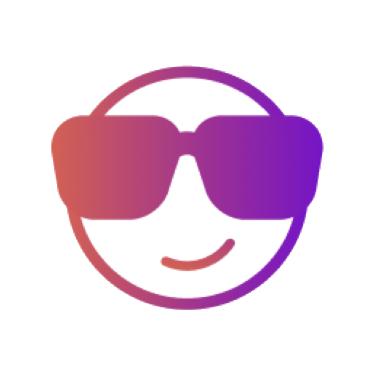
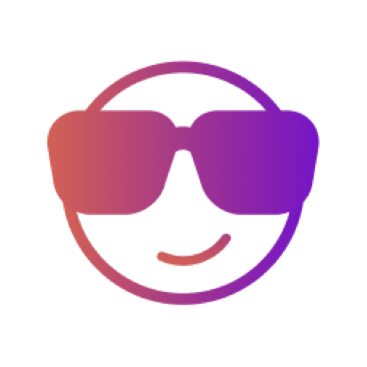
fix: логотип — целый круг (low-threshold кеинг, контур не съедается); заголовки Fraunces→Manrope (чистый Apple-стиль, без серифа)

diff --git a/index.html b/index.html
@@ -13,7 +13,7 @@
 <meta property="og:type" content="website">
 <link rel="preconnect" href="https://fonts.googleapis.com">
 <link rel="preconnect" href="https://fonts.gstatic.com" crossorigin>
-<link href="https://fonts.googleapis.com/css2?family=Fraunces:ital,opsz,wght@0,9..144,300;0,9..144,500;0,9..144,700;0,9..144,900;1,9..144,500&family=Manrope:wght@400;500;600;700;800&display=swap" rel="stylesheet">
+<link href="https://fonts.googleapis.com/css2?family=Manrope:wght@400;500;600;700;800&display=swap" rel="stylesheet">
 <style>
 :root{
   /* palette — light playful-premium */
@@ -67,9 +67,9 @@ body{
 @keyframes float{0%,100%{transform:translateY(0)}50%{transform:translateY(-7px)}}
 .medallion .disc{width:100%;height:100%;display:grid;place-items:center;position:relative;z-index:1}
 .medallion img,.medallion video{width:100%;height:100%;object-fit:contain;display:block}
-.medallion .ph{font-family:"Fraunces";font-weight:900;font-size:34px;background:var(--grad);-webkit-background-clip:text;background-clip:text;color:transparent}
+.medallion .ph{font-family:"Manrope";font-weight:900;font-size:34px;background:var(--grad);-webkit-background-clip:text;background-clip:text;color:transparent}
 
-.brand{font-family:"Fraunces",serif;font-weight:900;font-size:clamp(46px,15vw,68px);line-height:.92;letter-spacing:-.02em;margin:2px 0}
+.brand{font-family:"Manrope",sans-serif;font-weight:900;font-size:clamp(46px,15vw,68px);line-height:.92;letter-spacing:-.02em;margin:2px 0}
 .brand .dot{background:var(--grad);-webkit-background-clip:text;background-clip:text;color:transparent}
 .wordmark{display:block;width:min(310px,74vw);height:auto;margin:0 auto}
 .tag{margin-top:14px;font-weight:600;font-size:15px;color:var(--ink-soft);letter-spacing:.01em}
@@ -98,7 +98,7 @@ body{
 /* ---------- section heading ---------- */
 .sec{margin-top:44px}
 .sec-h{display:flex;align-items:center;gap:14px;margin-bottom:18px}
-.sec-h h2{font-family:"Fraunces";font-weight:700;font-size:22px;letter-spacing:-.01em;white-space:nowrap}
+.sec-h h2{font-family:"Manrope";font-weight:800;font-size:21px;letter-spacing:-.03em;white-space:nowrap}
 .sec-h .ln{flex:1;height:1px;background:var(--line-strong)}
 .sec-h .cnt{font-size:12px;font-weight:800;color:var(--ink-faint);letter-spacing:.06em;text-transform:uppercase}
 
@@ -113,13 +113,13 @@ body{
 .store-media{position:relative;height:312px;border-radius:19px;overflow:hidden;background:var(--grad-soft)}
 .store-media video,.store-media img{width:100%;height:100%;object-fit:cover;display:block}
 .store-media .noimg{position:absolute;inset:0;display:grid;place-items:center;background:var(--grad-soft)}
-.store-media .noimg span{font-family:"Fraunces";font-weight:900;font-size:34px;color:rgba(28,22,34,.22)}
+.store-media .noimg span{font-family:"Manrope";font-weight:900;font-size:34px;color:rgba(28,22,34,.22)}
 .store-media .badge{position:absolute;top:12px;left:12px;background:rgba(255,255,255,.92);backdrop-filter:blur(8px);padding:7px 12px;border-radius:999px;font-weight:800;font-size:12.5px;letter-spacing:.02em;display:flex;align-items:center;gap:6px}
 .store-media .badge i{width:7px;height:7px;border-radius:50%;background:#22C55E;box-shadow:0 0 0 3px rgba(34,197,94,.2)}
 .store-media .badge.closed{color:var(--ink-soft)}
 .store-media .badge.closed i{background:#9A93A3;box-shadow:0 0 0 3px rgba(154,147,163,.2)}
 .store-body{padding:16px 14px 8px}
-.store-name{font-family:"Fraunces";font-weight:700;font-size:19px;letter-spacing:-.01em}
+.store-name{font-family:"Manrope";font-weight:800;font-size:19px;letter-spacing:-.03em}
 .store-meta{margin-top:8px;display:flex;flex-direction:column;gap:6px}
 .store-meta div{display:flex;gap:9px;font-size:13.5px;color:var(--ink-soft);line-height:1.35}
 .store-meta svg{flex:none;margin-top:2px;color:var(--ink-faint)}
@@ -154,7 +154,7 @@ body{
 @keyframes sh{to{background-position:-200% 0}}
 .tile.wide{grid-column:span 2;aspect-ratio:3/2}
 .catalog-empty{grid-column:span 2;text-align:center;padding:40px 20px;border:1px dashed var(--line-strong);border-radius:20px;color:var(--ink-faint)}
-.catalog-empty b{display:block;color:var(--ink-soft);font-family:"Fraunces";font-size:18px;margin-bottom:6px}
+.catalog-empty b{display:block;color:var(--ink-soft);font-family:"Manrope";font-size:18px;margin-bottom:6px}
 .more{display:flex;align-items:center;justify-content:center;gap:9px;margin:18px auto 0;width:100%;padding:15px;border-radius:16px;cursor:pointer;
   background:var(--card);border:1px solid var(--line-strong);color:var(--ink);font-family:"Manrope";font-weight:700;font-size:14.5px;
   transition:transform var(--dur-fast) var(--ease-spring),border-color var(--dur-fast),background var(--dur-fast)}
@@ -177,7 +177,7 @@ body{
 
 /* ---------- footer ---------- */
 .foot{margin-top:52px;text-align:center;color:var(--ink-faint);font-size:12.5px}
-.foot .m{font-family:"Fraunces";font-weight:700;font-size:16px;color:var(--ink-soft);margin-bottom:6px}
+.foot .m{font-family:"Manrope";font-weight:700;font-size:16px;color:var(--ink-soft);margin-bottom:6px}
 .foot a{color:var(--ink-soft);text-decoration:none;border-bottom:1px solid var(--line-strong)}
 
 /* reveal */
@@ -236,7 +236,7 @@ body{
 @keyframes ping{0%{transform:scale(1);opacity:.55}70%,100%{transform:scale(1.7);opacity:0}}
 @keyframes icbob{0%,100%{transform:translateY(0)}50%{transform:translateY(-2px)}}
 .finder-cta .tx{flex:1;min-width:0}
-.finder-cta .tx b{display:block;font-family:"Fraunces";font-weight:700;font-size:16px;letter-spacing:-.01em}
+.finder-cta .tx b{display:block;font-family:"Manrope";font-weight:700;font-size:16px;letter-spacing:-.01em}
 .finder-cta .tx span{font-size:12.5px;color:var(--ink-faint);font-weight:600}
 .finder-cta .arw{flex:none;color:var(--ink-faint)}
 
@@ -248,7 +248,7 @@ body{
 @keyframes pop{from{opacity:0;transform:scale(.92) translateY(10px)}to{opacity:1;transform:none}}
 .finder-close{position:absolute;top:14px;right:14px;width:34px;height:34px;border:none;border-radius:50%;cursor:pointer;background:var(--bg-warm);color:var(--ink-soft);display:grid;place-items:center;z-index:4}
 .finder-mark{width:78px;height:78px;margin:0 auto 12px;animation:plbob 2.2s ease-in-out infinite}
-.finder-card h3{font-family:"Fraunces";font-weight:700;font-size:23px;letter-spacing:-.01em}
+.finder-card h3{font-family:"Manrope";font-weight:800;font-size:23px;letter-spacing:-.03em}
 .finder-card .lead{margin-top:9px;font-size:14px;color:var(--ink-soft);line-height:1.5}
 .finder-geo{display:flex;align-items:center;justify-content:center;gap:9px;width:100%;margin-top:20px;padding:15px;cursor:pointer;border:none;border-radius:16px;
   background:linear-gradient(115deg,var(--g1),var(--g2),var(--g3),var(--g2),var(--g1));background-size:300% 100%;animation:ctaflow 9s linear infinite;
@@ -266,13 +266,13 @@ body{
 .res-card .rc-media{height:150px;position:relative;background:var(--grad-soft)}
 .res-card .rc-media video{width:100%;height:100%;object-fit:cover;display:block}
 .res-card .rc-body{padding:14px 16px}
-.res-card .rc-name{font-family:"Fraunces";font-weight:700;font-size:18px}
+.res-card .rc-name{font-family:"Manrope";font-weight:700;font-size:18px}
 .res-card .rc-meta{margin-top:6px;font-size:13px;color:var(--ink-soft);line-height:1.45}
 .res-actions{display:grid;grid-template-columns:1fr 1fr;gap:8px;margin-top:14px}
 .finder-again{margin-top:16px;background:none;border:none;cursor:pointer;color:var(--ink-faint);font-family:"Manrope";font-weight:700;font-size:13px;text-decoration:underline}
 /* календарь-конструктор */
 .cal{margin-top:18px;padding-top:18px;border-top:1px solid var(--line);text-align:left}
-.cal-h{font-family:"Fraunces";font-weight:700;font-size:16px;text-align:center;margin-bottom:4px}
+.cal-h{font-family:"Manrope";font-weight:800;font-size:16.5px;letter-spacing:-.02em;text-align:center;margin-bottom:4px}
 .cal-sub{text-align:center;font-size:12.5px;color:var(--ink-faint);margin-bottom:14px}
 /* кастомный date-picker */
 .dp{position:relative}
@@ -286,7 +286,7 @@ body{
 .dp-pop{margin-top:8px;padding:14px;border-radius:18px;background:var(--card);border:1px solid var(--line);box-shadow:0 20px 44px -22px rgba(28,22,34,.4);animation:pop .3s var(--ease-spring)}
 .dp-pop[hidden]{display:none}
 .dp-head{display:flex;align-items:center;justify-content:space-between;margin-bottom:10px}
-.dp-title{font-family:"Fraunces";font-weight:700;font-size:15.5px;text-transform:capitalize}
+.dp-title{font-family:"Manrope";font-weight:800;font-size:15px;letter-spacing:-.02em;text-transform:capitalize}
 .dp-nav{width:32px;height:32px;border:none;border-radius:10px;cursor:pointer;background:var(--bg-warm);color:var(--ink-soft);display:grid;place-items:center;transition:background var(--dur-fast)}
 .dp-nav:hover{background:var(--grad-soft);color:var(--ink)}
 .dp-week{display:grid;grid-template-columns:repeat(7,1fr);gap:2px;margin-bottom:4px}